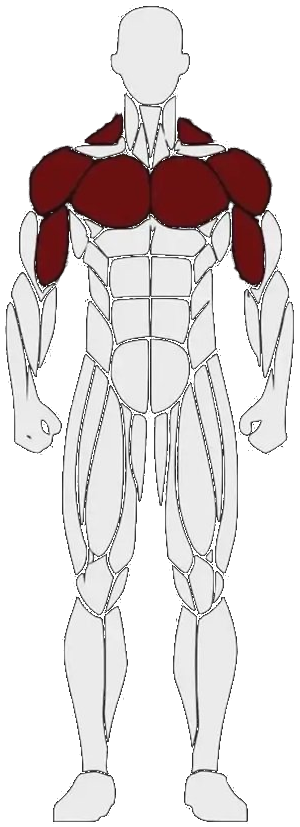
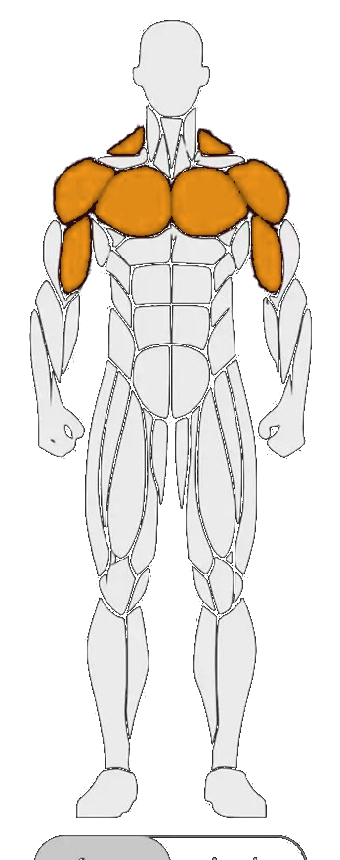
Harmonize front and back ranking character models, match deltoid palette, and remove overlay square boxes

Changed region(s): [[0.0, 0.0, 0.99, 1.0], [0.27, 0.786, 0.3, 0.8464], [0.39, 0.9069, 0.42, 0.9371]]

diff --git a/index.html b/index.html
@@ -272,36 +272,36 @@
             <div id="ranks-front-view" class="ranks-anatomy-display">
               <div class="anatomy-image-wrap">
                 <img src="front_ranking_body.png" alt="Front Muscle Rank Diagram" class="anatomy-char-img" />
-                <svg class="anatomy-click-map" viewBox="0 0 300 827" xmlns="http://www.w3.org/2000/svg">
+                <svg class="anatomy-click-map" viewBox="0 0 340 860" xmlns="http://www.w3.org/2000/svg">
                   <!-- Shoulders & Traps -->
                   <g class="muscle" data-muscle="shoulders" title="Shoulders & Traps">
-                    <polygon points="110,110 190,110 175,145 125,145" />
-                    <polygon points="30,150 85,155 80,225 35,215 25,180" />
-                    <polygon points="270,150 215,155 220,225 265,215 275,180" />
+                    <polygon points="135,115 205,115 190,155 150,155" />
+                    <polygon points="35,160 95,165 90,240 38,230 28,190" />
+                    <polygon points="305,160 245,165 250,240 302,230 312,190" />
                   </g>
                   <!-- Chest -->
                   <g class="muscle" data-muscle="chest" title="Chest">
-                    <polygon points="85,155 150,165 148,225 82,220" />
-                    <polygon points="215,155 150,165 152,225 218,220" />
+                    <polygon points="95,165 170,175 168,240 92,235" />
+                    <polygon points="245,165 170,175 172,240 248,235" />
                   </g>
                   <!-- Biceps & Arms -->
                   <g class="muscle" data-muscle="biceps" title="Biceps & Arms">
-                    <polygon points="35,215 80,220 78,285 30,280" />
-                    <polygon points="265,215 220,220 222,285 270,280" />
+                    <polygon points="38,230 90,235 88,310 32,305" />
+                    <polygon points="302,230 250,235 252,310 308,305" />
                   </g>
                   <!-- Abs & Core -->
                   <g class="muscle" data-muscle="abs" title="Abs & Core">
-                    <polygon points="95,225 205,225 190,415 110,415" />
+                    <polygon points="105,240 235,240 215,445 125,445" />
                   </g>
                   <!-- Quadriceps -->
                   <g class="muscle" data-muscle="quads" title="Quads">
-                    <polygon points="75,415 148,425 140,580 82,575" />
-                    <polygon points="225,415 152,425 160,580 218,575" />
+                    <polygon points="85,445 168,455 158,620 92,615" />
+                    <polygon points="255,445 172,455 182,620 248,615" />
                   </g>
                   <!-- Calves -->
                   <g class="muscle" data-muscle="calves" title="Calves">
-                    <polygon points="72,600 138,600 134,775 80,775" />
-                    <polygon points="228,600 162,600 166,775 220,775" />
+                    <polygon points="80,640 155,640 150,825 90,825" />
+                    <polygon points="260,640 185,640 190,825 250,825" />
                   </g>
                 </svg>
               </div>
@@ -310,33 +310,33 @@
             <div id="ranks-back-view" class="ranks-anatomy-display" style="display:none;">
               <div class="anatomy-image-wrap">
                 <img src="back_ranking_body.png" alt="Back Muscle Rank Diagram" class="anatomy-char-img" />
-                <svg class="anatomy-click-map" viewBox="0 0 195 424" xmlns="http://www.w3.org/2000/svg">
+                <svg class="anatomy-click-map" viewBox="0 0 340 860" xmlns="http://www.w3.org/2000/svg">
                   <!-- Shoulders & Traps (Rear Delts & Upper Trapezius) -->
                   <g class="muscle" data-muscle="shoulders" title="Rear Shoulders & Trapezius">
-                    <polygon points="26,72 55,75 52,106 20,102" />
-                    <polygon points="169,72 140,75 143,106 175,102" />
-                    <polygon points="76,38 119,38 114,86 81,86" />
+                    <polygon points="45,150 100,155 95,225 35,215" />
+                    <polygon points="295,150 240,155 245,225 305,215" />
+                    <polygon points="130,80 210,80 200,180 140,180" />
                   </g>
                   <!-- Back & Lats (V-Taper) -->
                   <g class="muscle" data-muscle="back" title="Back & Lats">
-                    <polygon points="54,98 97,104 97,178 51,175 46,132" />
-                    <polygon points="141,98 98,104 98,178 144,175 149,132" />
+                    <polygon points="95,205 168,220 168,375 90,370 80,280" />
+                    <polygon points="245,205 172,220 172,375 250,370 260,280" />
                   </g>
                   <!-- Triceps -->
                   <g class="muscle" data-muscle="triceps" title="Triceps">
-                    <polygon points="16,108 36,112 34,166 14,162" />
-                    <polygon points="179,108 159,112 161,166 181,162" />
+                    <polygon points="30,225 75,235 70,350 25,340" />
+                    <polygon points="310,225 265,235 270,350 315,340" />
                   </g>
                   <!-- Hamstrings & Glutes -->
                   <g class="muscle" data-muscle="hamstrings" title="Glutes & Hamstrings">
-                    <polygon points="56,182 139,182 148,235 47,235" />
-                    <polygon points="48,236 94,236 90,305 52,305" />
-                    <polygon points="147,236 101,236 105,305 143,305" />
+                    <polygon points="95,385 245,385 260,500 80,500" />
+                    <polygon points="85,500 165,500 155,650 90,650" />
+                    <polygon points="255,500 175,500 185,650 250,650" />
                   </g>
                   <!-- Calves -->
                   <g class="muscle" data-muscle="calves" title="Calves">
-                    <polygon points="50,310 88,310 86,395 54,395" />
-                    <polygon points="145,310 107,310 109,395 141,395" />
+                    <polygon points="85,660 155,660 150,830 95,830" />
+                    <polygon points="255,660 185,660 190,830 245,830" />
                   </g>
                 </svg>
               </div>

diff --git a/style.css b/style.css
@@ -1906,16 +1906,16 @@ input:checked + .slider:before {
 
 /* Comic / Hevy Bodybuilder Anatomy Frame (Matching Uploaded Image) */
 .anatomy-card-frame {
-  background: radial-gradient(circle at 50% 30%, #15102a 0%, #0c0817 80%);
-  border: 1px solid rgba(255, 255, 255, 0.08);
-  border-radius: 24px;
-  padding: 24px 14px 22px;
-  box-shadow: 0 12px 40px rgba(0, 0, 0, 0.8);
+  background: transparent;
+  border: none;
+  border-radius: 0;
+  padding: 6px 0 16px;
+  box-shadow: none;
   display: flex;
   flex-direction: column;
   align-items: center;
   position: relative;
-  overflow: hidden;
+  overflow: visible;
 }
 .anatomy-viewport {
   width: 100%;
@@ -1933,16 +1933,17 @@ input:checked + .slider:before {
 .anatomy-image-wrap {
   position: relative;
   display: inline-block;
-  max-width: 250px;
+  max-width: 240px;
   width: 100%;
 }
 .anatomy-char-img {
   width: 100%;
   height: auto;
+  aspect-ratio: 340 / 860;
   max-height: 480px;
   object-fit: contain;
   display: block;
-  filter: drop-shadow(0 6px 24px rgba(0, 0, 0, 0.8));
+  filter: drop-shadow(0 8px 24px rgba(0, 0, 0, 0.7));
 }
 .anatomy-click-map {
   position: absolute;
@@ -1955,33 +1956,26 @@ input:checked + .slider:before {
 .anatomy-click-map .muscle {
   cursor: pointer;
 }
+/* Invisible click targets - NO colored square boxes over the body images */
 .anatomy-click-map .muscle polygon,
 .anatomy-click-map .muscle path {
-  fill: transparent;
-  stroke: transparent;
-  stroke-width: 1.5;
-  transition: all 0.25s ease;
+  fill: transparent !important;
+  stroke: transparent !important;
+  stroke-width: 0 !important;
+  opacity: 0 !important;
+  filter: none !important;
 }
 .anatomy-click-map .muscle:hover polygon,
-.anatomy-click-map .muscle:hover path {
-  fill: rgba(255, 255, 255, 0.2);
-  stroke: rgba(255, 255, 255, 0.8);
-  filter: drop-shadow(0 0 8px rgba(255, 255, 255, 0.5));
-}
+.anatomy-click-map .muscle:hover path,
 .anatomy-click-map .muscle.selected polygon,
-.anatomy-click-map .muscle.selected path {
-  fill: var(--tier-color, #ffd02e) !important;
-  fill-opacity: 0.38 !important;
-  stroke: #ffffff !important;
-  stroke-width: 2.5 !important;
-  filter: drop-shadow(0 0 14px var(--tier-color, #ffd02e)) !important;
-}
-.anatomy-click-map .muscle.ranked:not(.selected) polygon,
-.anatomy-click-map .muscle.ranked:not(.selected) path {
-  fill: var(--tier-color, #ffd02e);
-  fill-opacity: 0.16;
-  stroke: var(--tier-color, #ffd02e);
-  stroke-width: 1.2;
+.anatomy-click-map .muscle.selected path,
+.anatomy-click-map .muscle.ranked polygon,
+.anatomy-click-map .muscle.ranked path {
+  fill: transparent !important;
+  stroke: transparent !important;
+  stroke-width: 0 !important;
+  opacity: 0 !important;
+  filter: none !important;
 }
 
 /* Bottom Pill Toggle (Exact Replica of Uploaded Screenshot) */

diff --git a/sw.js b/sw.js
@@ -1,4 +1,4 @@
-const CACHE_NAME = 'moon-v16';
+const CACHE_NAME = 'moon-v17';
 const ASSETS_TO_CACHE = [
   './',
   './index.html',
